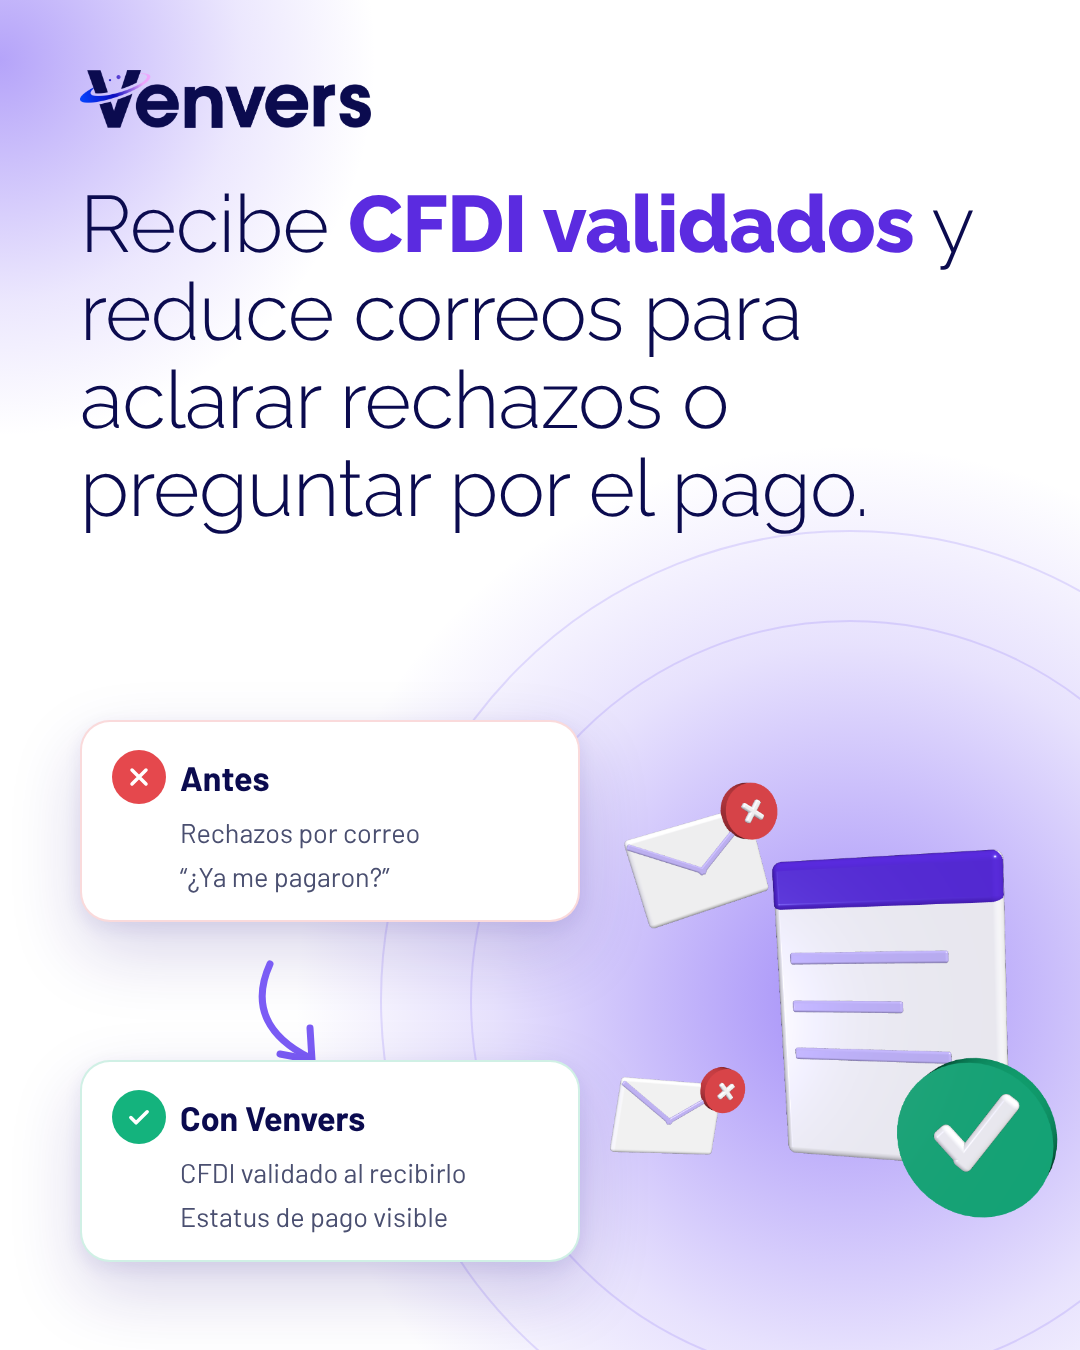
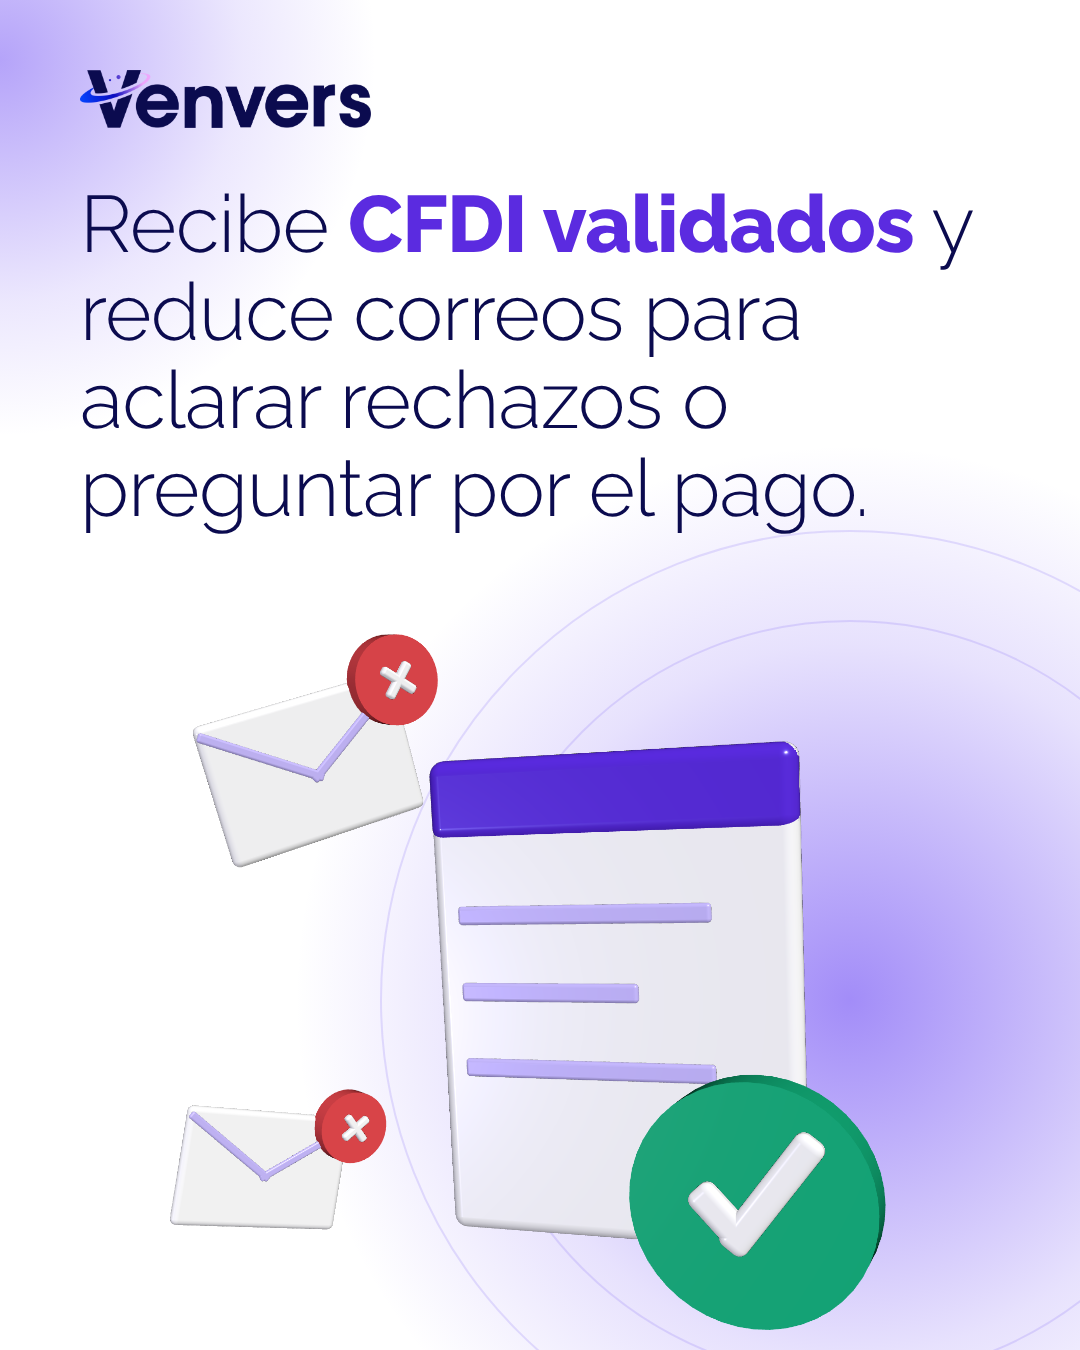
Venvers white carousel: use the brief copy verbatim
Claude-Session: https://claude.ai/code/session_01NghCctPQaKXziVeL1FGG6n

Changed region(s): [[0.0611, 0.5289, 0.9778, 0.9956], [0.3056, 0.4667, 0.4278, 0.56], [0.0611, 0.84, 0.0917, 0.9333]]

diff --git a/editor/src/venvers/CarruselBlanco.tsx b/editor/src/venvers/CarruselBlanco.tsx
@@ -5,7 +5,7 @@
 import React, { useEffect, useState } from "react";
 import { AbsoluteFill, continueRender, delayRender, Img, Sequence, staticFile } from "remotion";
 import { FEATURES } from "./Carrusel";
-import { BARLOW, GradientButton, H, HandArrow, Laptop, Logo, RALEWAY, V, VHeadline, venversFonts, W } from "./kit";
+import { BARLOW, H, Laptop, Logo, RALEWAY, V, VHeadline, venversFonts, W } from "./kit";
 import { PortalDesktop } from "./screens";
 
 const ILLUS = (n: string) => staticFile(`venvers/3d/${n}.png`);
@@ -43,7 +43,6 @@ const WBackground: React.FC<{ glows: Glow[]; rings?: { x: number; y: number; r: 
   </AbsoluteFill>
 );
 
-const ARROW = V.violet;
 
 /* ---------- Slide 1 — hook: overflowing inbox ---------- */
 const INBOX = [
@@ -126,27 +125,6 @@ const S2: React.FC = () => (
 );
 
 /* ---------- Slide 3 — validated CFDI, fewer emails ---------- */
-const CompareCard: React.FC<{ y: number; kind: "bad" | "ok"; title: string; lines: string[] }> = ({ y, kind, title, lines }) => {
-  const c = kind === "ok" ? V.ok : V.bad;
-  return (
-    <div style={{ position: "absolute", left: M, top: y, width: 500, background: "#fff", borderRadius: 30, padding: "28px 30px", boxShadow: SHADOW, fontFamily: BARLOW, border: `2px solid ${c}33`, boxSizing: "border-box" }}>
-      <div style={{ display: "flex", alignItems: "center", gap: 14 }}>
-        <div style={{ width: 54, height: 54, borderRadius: "50%", background: c, display: "flex", alignItems: "center", justifyContent: "center" }}>
-          <svg width={28} height={28} viewBox="0 0 24 24">
-            <path d={kind === "ok" ? "M5 12.5l4.5 4.5L19 7.5" : "M6 6l12 12M18 6L6 18"} fill="none" stroke="#fff" strokeWidth={3} strokeLinecap="round" strokeLinejoin="round" />
-          </svg>
-        </div>
-        <span style={{ fontSize: 34, fontWeight: 700, color: INK }}>{title}</span>
-      </div>
-      {lines.map((l) => (
-        <div key={l} style={{ fontSize: 27, color: "#4A4F70", marginTop: 12, paddingLeft: 68 }}>
-          {l}
-        </div>
-      ))}
-    </div>
-  );
-};
-
 const S3: React.FC = () => (
   <AbsoluteFill>
     <WBackground glows={[{ x: 850, y: 1000, r: 560 }, { x: 0, y: 60, r: 380, o: 0.8 }]} rings={[{ x: 850, y: 1000, r: 380 }, { x: 850, y: 1000, r: 470 }]} />
@@ -158,10 +136,7 @@ const S3: React.FC = () => (
       style={{ position: "absolute", left: M, top: 180, color: INK, lineHeight: 1.1 }}
       parts={["Recibe ", { b: "CFDI validados" }, " y reduce correos para aclarar rechazos o preguntar por el pago."]}
     />
-    <CompareCard y={720} kind="bad" title="Antes" lines={["Rechazos por correo", "“¿Ya me pagaron?”"]} />
-    <HandArrow x={250} y={958} w={120} h={110} d="M20 6 C 0 50, 20 80, 60 100" head="M30 96 L62 102 L60 70" color={ARROW} />
-    <CompareCard y={1060} kind="ok" title="Con Venvers" lines={["CFDI validado al recibirlo", "Estatus de pago visible"]} />
-    <Img src={ILLUS("cfdi-validado")} style={{ position: "absolute", left: 610, top: 780, width: 450, height: 440 }} />
+    <Img src={ILLUS("cfdi-validado")} style={{ position: "absolute", left: 170, top: 630, width: 720, height: 704 }} />
   </AbsoluteFill>
 );
 
@@ -170,16 +145,14 @@ const S4: React.FC = () => (
   <AbsoluteFill>
     <WBackground glows={[{ x: 880, y: 820, r: 560 }, { x: 40, y: 1300, r: 380, o: 0.8 }]} rings={[{ x: 880, y: 820, r: 400 }]} />
     <Logo x={M} y={70} h={58} dark />
-    <VHeadline size={88} width={W - M * 2} accent={V.purple} style={{ position: "absolute", left: M, top: 180, color: INK }} parts={["Todo el ciclo, ", { b: "en un solo portal" }]} />
-    <div style={{ position: "absolute", left: M, right: M, top: 440, height: 840, display: "flex", flexDirection: "column", justifyContent: "space-between" }}>
+    <div style={{ position: "absolute", left: M, right: M, top: 190, height: 1080, display: "flex", flexDirection: "column", justifyContent: "space-between" }}>
       {FEATURES.map((f, n) => (
         <div key={f.t} style={{ background: "#fff", borderRadius: 34, padding: "18px 40px 18px 18px", boxShadow: SHADOW, display: "flex", gap: 22, alignItems: "center", border: "1px solid #ECEAFB" }}>
-          <div style={{ width: 220, height: 220, display: "flex", alignItems: "center", justifyContent: "center", flexShrink: 0, borderRadius: 26, background: "radial-gradient(circle, rgba(123,92,245,.22) 0%, rgba(123,92,245,0) 70%)" }}>
-            <Img src={ILLUS(["doc-check", "ojo", "monedas"][n])} style={{ maxWidth: 190, maxHeight: 190 }} />
+          <div style={{ width: 260, height: 260, display: "flex", alignItems: "center", justifyContent: "center", flexShrink: 0, borderRadius: 26, background: "radial-gradient(circle, rgba(123,92,245,.22) 0%, rgba(123,92,245,0) 70%)" }}>
+            <Img src={ILLUS(["doc-check", "ojo", "monedas"][n])} style={{ maxWidth: 230, maxHeight: 230 }} />
           </div>
           <div>
-            <div style={{ fontFamily: RALEWAY, fontWeight: 800, fontSize: 42, color: INK, lineHeight: 1.12 }}>{f.t}</div>
-            <div style={{ fontFamily: RALEWAY, fontWeight: 500, fontSize: 31, color: "#5A5F80", marginTop: 10 }}>{f.d}</div>
+            <div style={{ fontFamily: RALEWAY, fontWeight: 800, fontSize: 52, color: INK, lineHeight: 1.12 }}>{f.t}</div>
           </div>
         </div>
       ))}
@@ -192,14 +165,8 @@ const S5: React.FC = () => (
   <AbsoluteFill>
     <WBackground glows={[{ x: 540, y: 1150, r: 700 }, { x: 1040, y: 100, r: 380, o: 0.8 }]} rings={[{ x: 540, y: 1150, r: 520 }, { x: 540, y: 1150, r: 620 }]} />
     <Logo x={M} y={70} h={58} dark />
-    <VHeadline size={104} width={W - M * 2} accent={V.purple} style={{ position: "absolute", left: M, top: 180, color: INK, lineHeight: 1.05 }} parts={["Solicita una ", { b: "demo" }, " de Venvers"]} />
-    <div style={{ position: "absolute", left: M, top: 430, width: 880, fontFamily: RALEWAY, fontWeight: 500, fontSize: 38, color: "#4A4F70", lineHeight: 1.3 }}>
-      Transforma la forma en que interactúas con tus proveedores.
-    </div>
-    <div style={{ position: "absolute", left: M, top: 580 }}>
-      <GradientButton size={46}>Solicitar demo →</GradientButton>
-    </div>
-    <Img src={ILLUS("planeta")} style={{ position: "absolute", left: 40, top: 720, width: 1000, height: 615 }} />
+    <VHeadline size={124} width={W - M * 2} accent={V.purple} style={{ position: "absolute", left: M, top: 200, color: INK, lineHeight: 1.05 }} parts={["Solicita una ", { b: "demo" }, " de Venvers"]} />
+    <Img src={ILLUS("planeta")} style={{ position: "absolute", left: 0, top: 640, width: 1080, height: 664 }} />
   </AbsoluteFill>
 );
 
